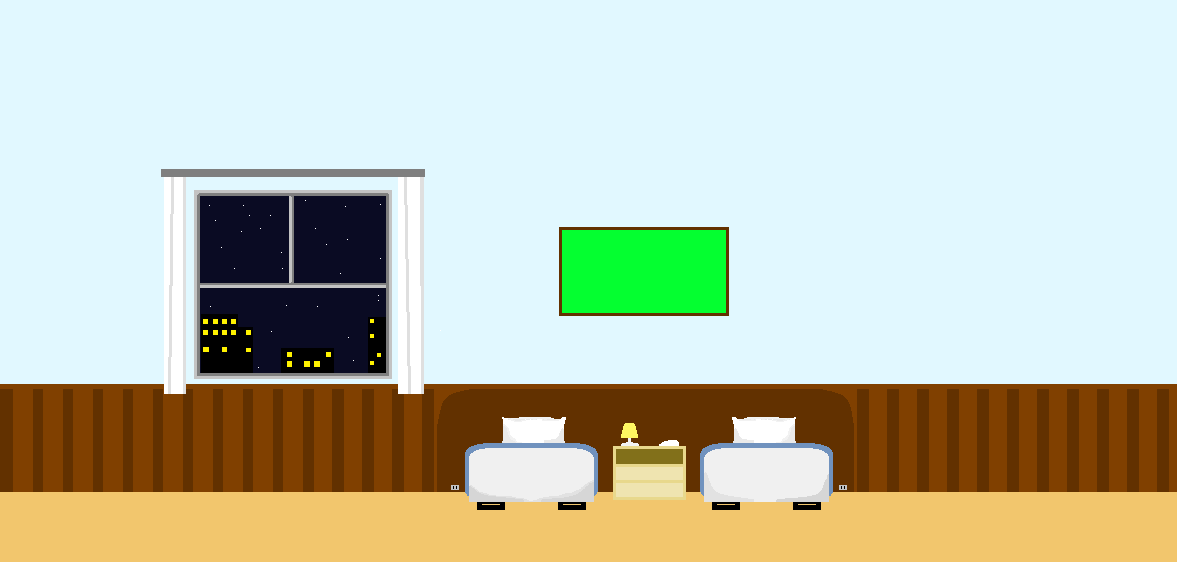
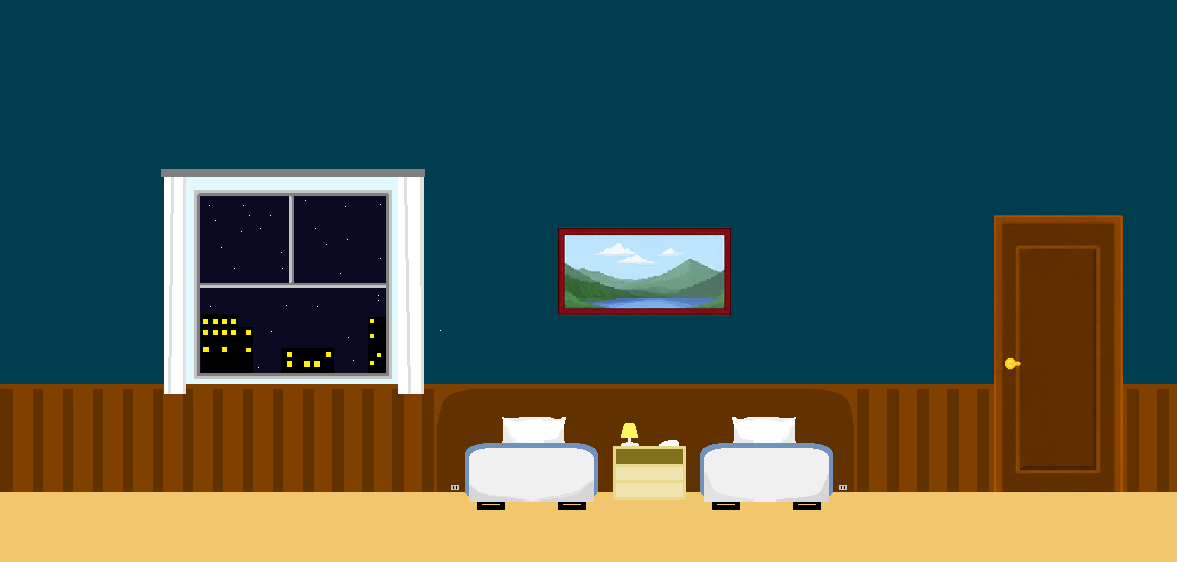
endoidei2

diff --git a/src/tela/Portas.java b/src/tela/Portas.java
@@ -5,7 +5,9 @@ import personagem.Jogador;
 public class Portas {
 
     private boolean portaEscritorio = false;
+    private boolean portaEscritorioEntrada = true;
     private boolean portaQuarto = false;
+    private boolean portaQuartoCorredor = true;
     private boolean portaHotel = false;
 
     public String tentarUsarPorta(String cenarioAtual, Jogador jogador) {
@@ -34,7 +36,7 @@ public class Portas {
         }
 
         // SAIR DO ESCRITÓRIO
-        if (cenarioAtual.equals("Escritorio") && jogador.x >= 900 && jogador.x <= 1100) {
+        if (cenarioAtual.equals("Escritorio") && jogador.x >= 1100) {
 
             return "Entrada";
         }
@@ -51,7 +53,7 @@ public class Portas {
         }
 
         // SAIR DO QUARTO
-        if (cenarioAtual.equals("Quarto") && jogador.x <= 195) {
+        if (cenarioAtual.equals("Quarto") && jogador.x >= 1065) {
 
             return "Corredor";
         }

diff --git a/src/personagem/Jogador.java b/src/personagem/Jogador.java
@@ -115,6 +115,8 @@ public class Jogador {
         boolean podeIrDireita = false;
         boolean podeIrEsquerda = false;
 
+        System.out.println(x);
+
         if (cenarioAtual.equals("Entrada") || cenarioAtual.equals("Corredor")) {
             podeIrDireita = true;
         }